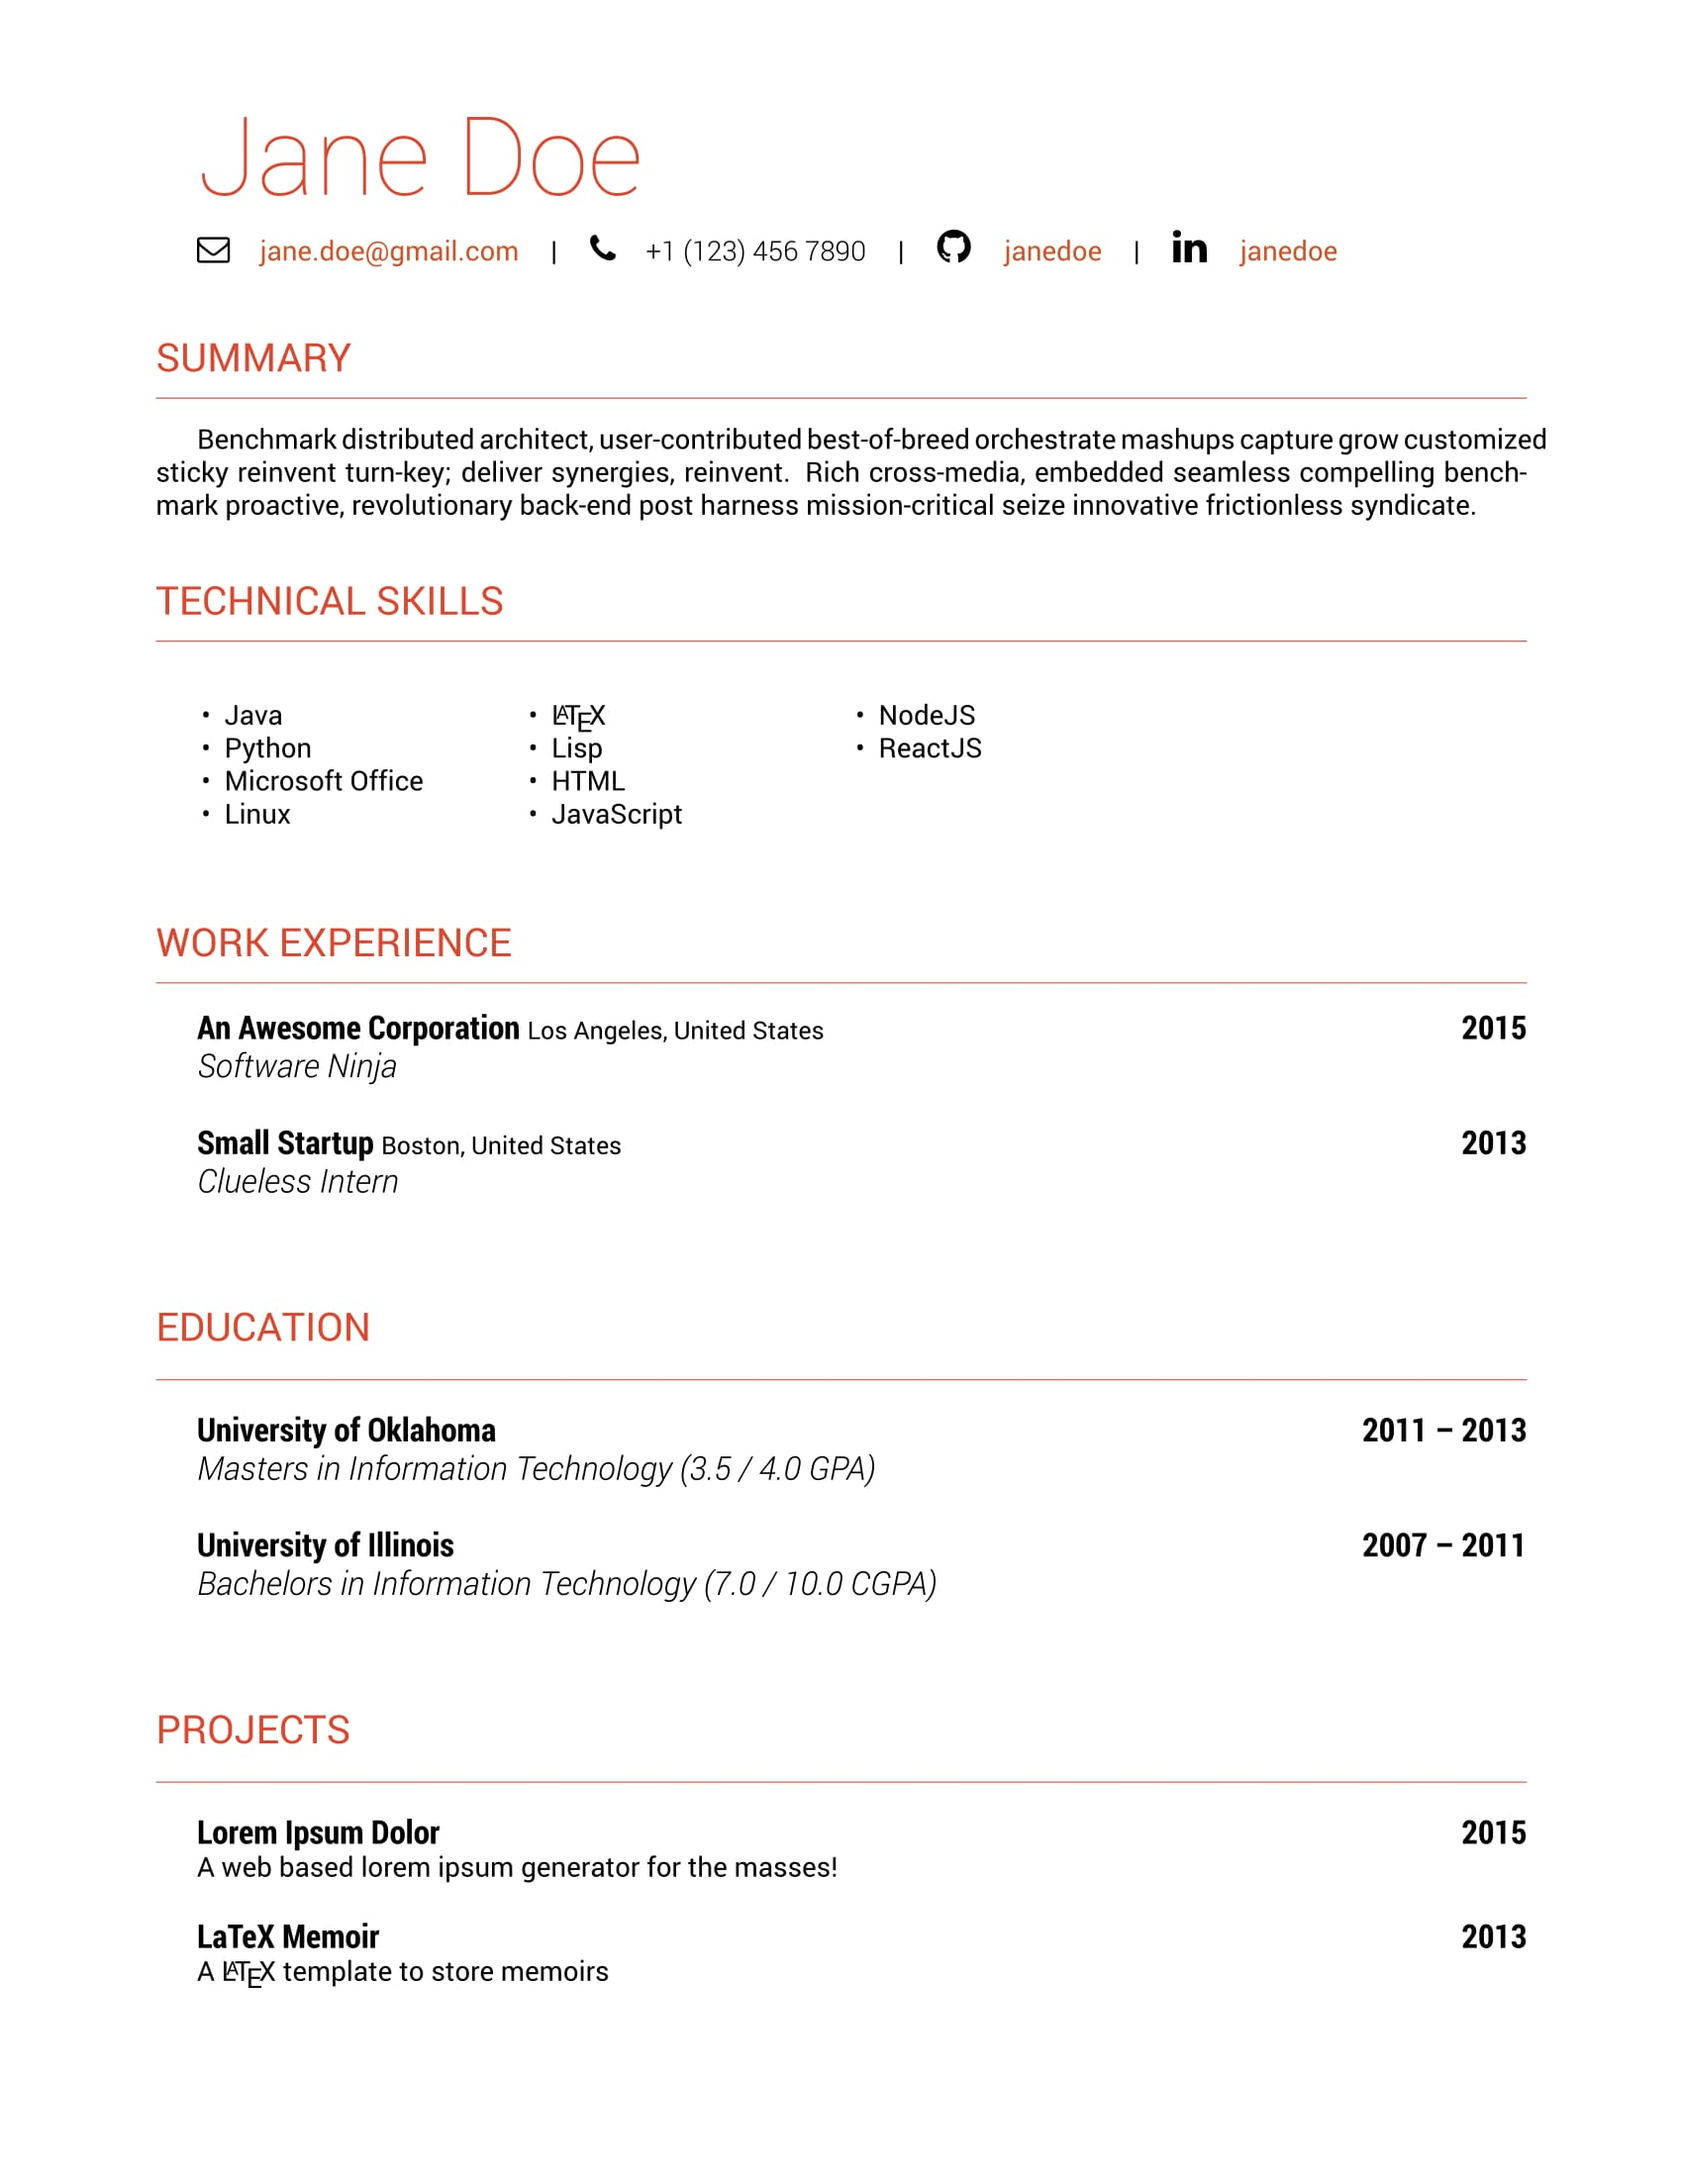
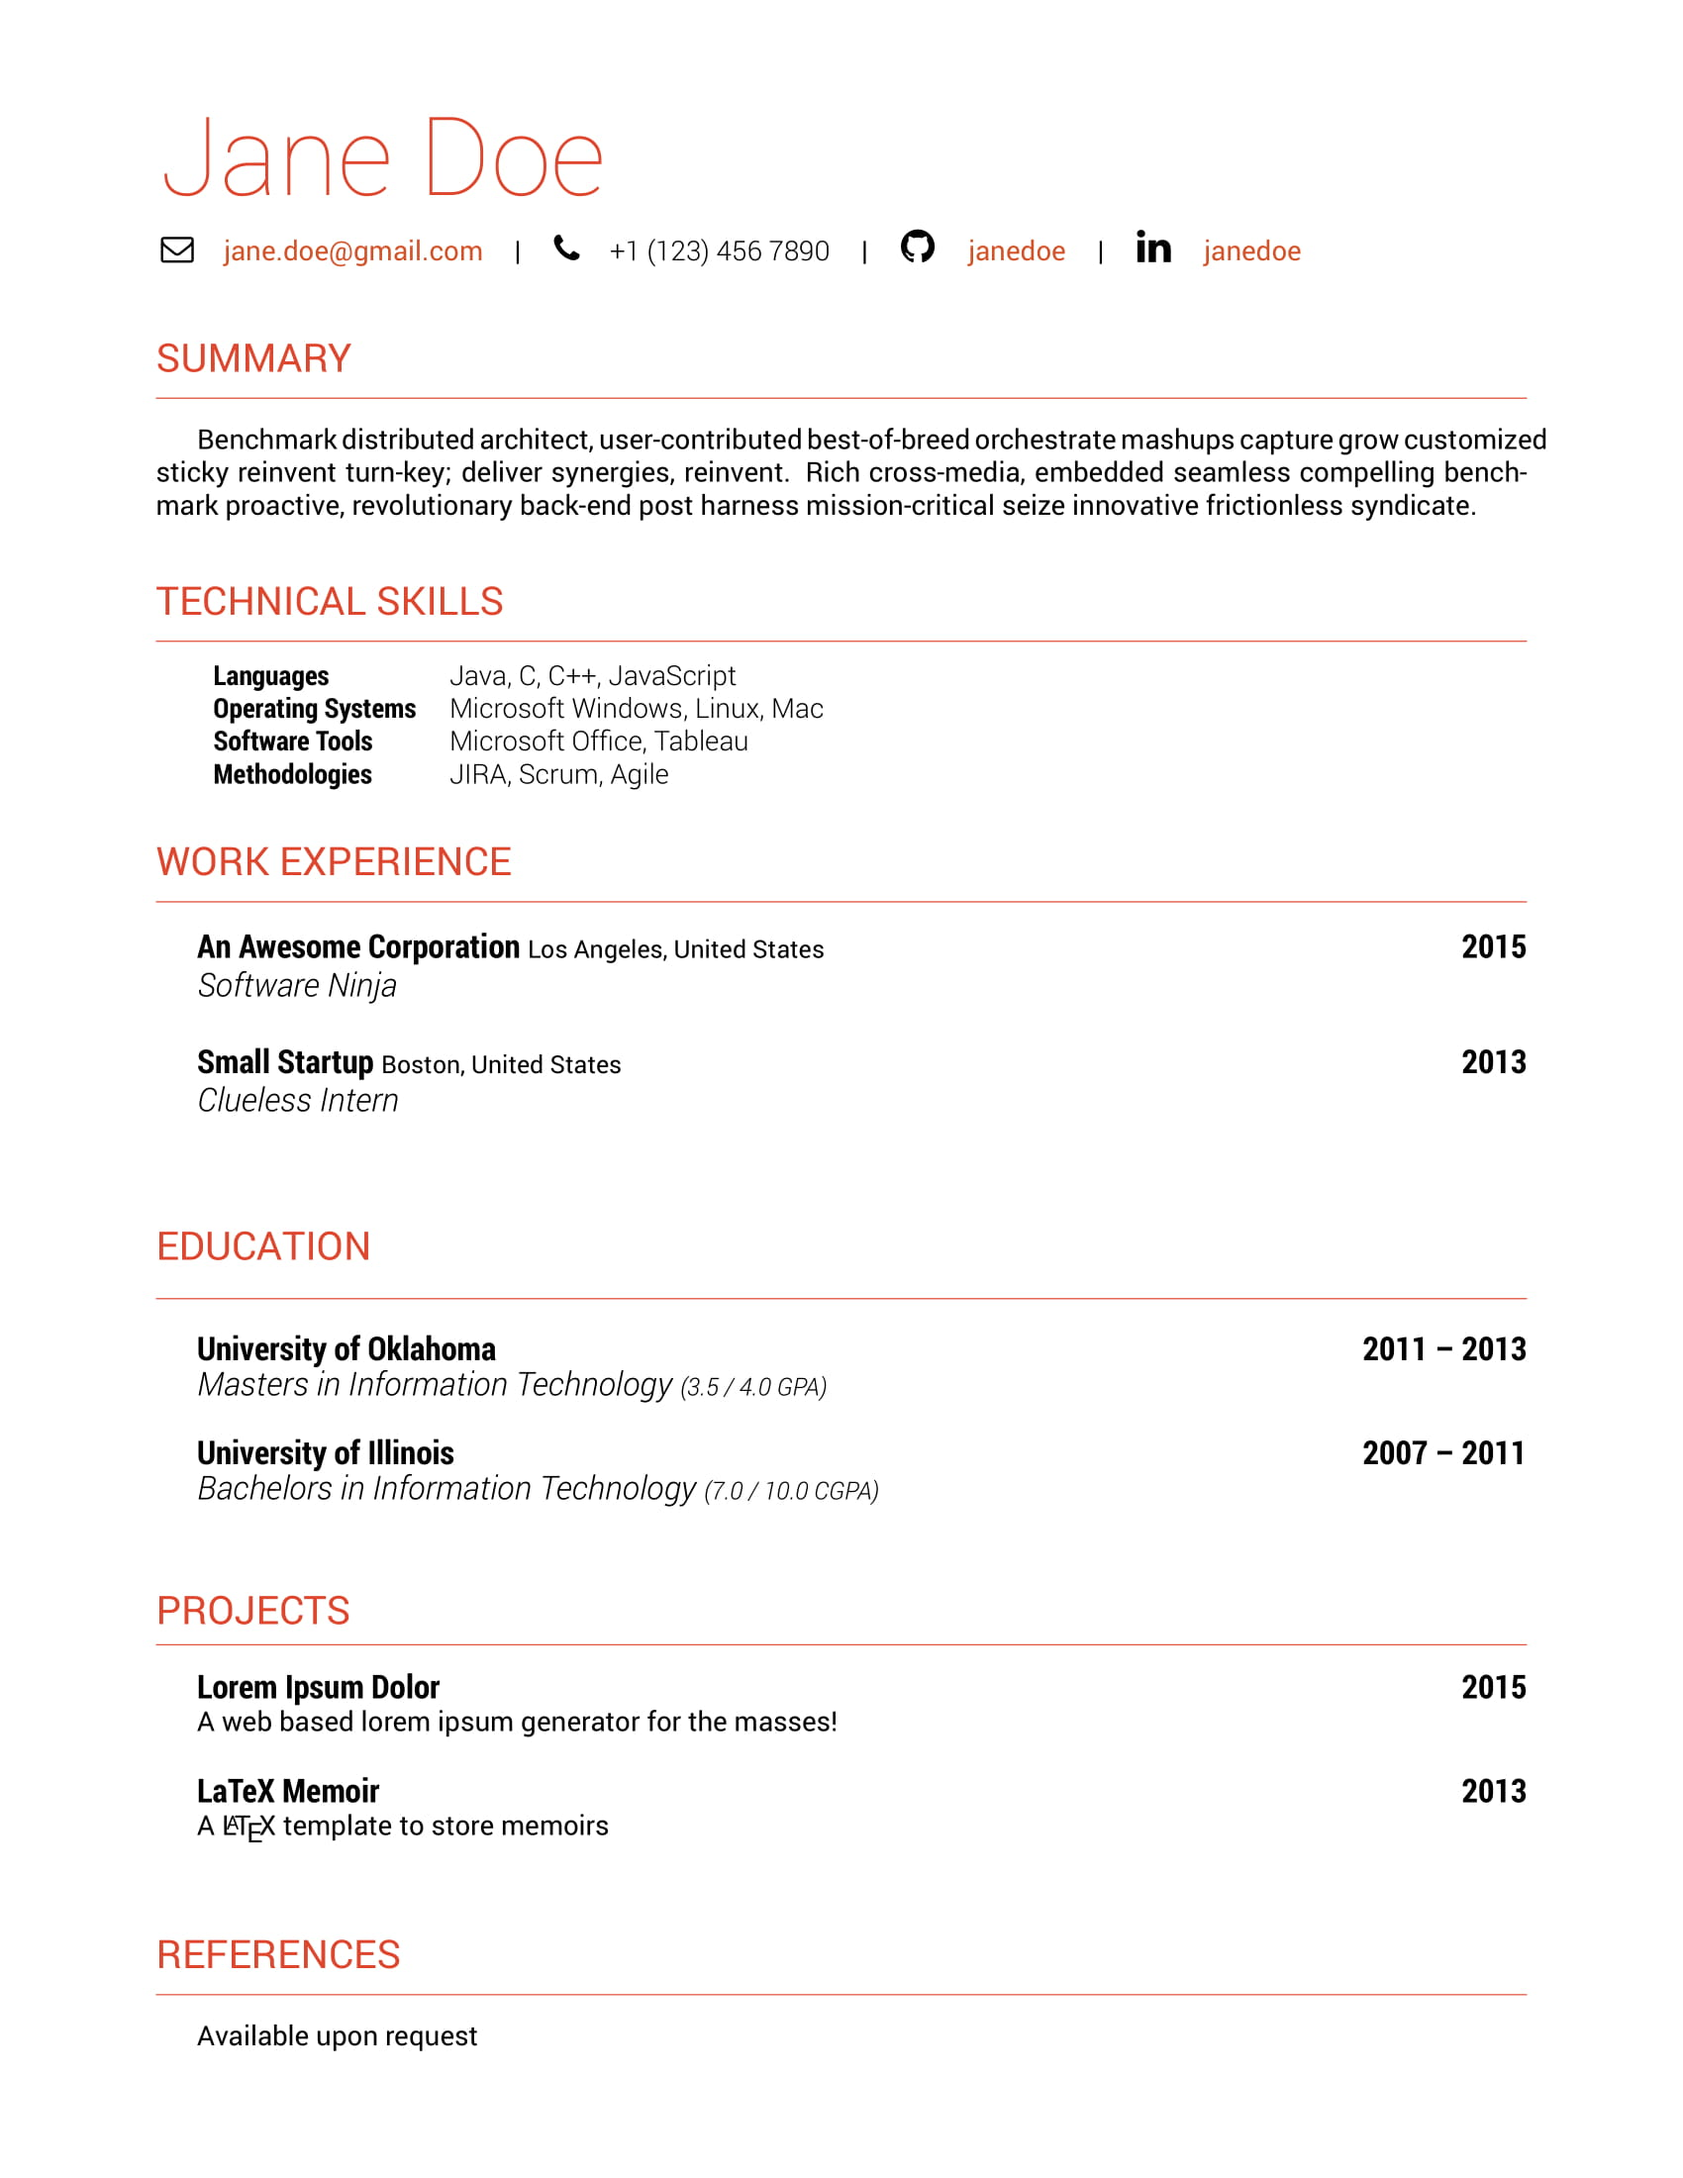
Changed the "Technical Skills" section to use tabular environment instead of multicols for better aesthetic

diff --git a/resume.tex b/resume.tex
@@ -3,8 +3,8 @@
 \usepackage{multicol}
 
 \begin{document}
-  \NameHeader{Jane Doe}
-  \Email{jane.doe@gmail.com}
+  \noindent \hspace{-3mm} \NameHeader{Jane Doe}
+  \noindent \hspace{-2mm} \Email{jane.doe@gmail.com}
   \vsep \Contact{1}{123}{456}{7890}
   \vsep \GitHub{janedoe}{https://github.com/janedoe}
   \vsep \LinkedIn{janedoe}{https://www.linkedin.com/janedoe} \vspace{0.4em}
@@ -15,22 +15,13 @@
   Benchmark distributed architect, user-contributed best-of-breed orchestrate mashups capture grow customized sticky reinvent turn-key; deliver synergies, reinvent. Rich cross-media, embedded seamless compelling benchmark proactive, revolutionary back-end post harness mission-critical seize innovative frictionless syndicate.
 
   \CVSection{Technical Skills}
-    \setlength\columnsep{-50mm}
-    \begin{multicols}{3}
-      \begin{itemize}
-        \item Java
-        \item Python
-        \item Microsoft Office
-        \item Linux
-        \item \LaTeX
-        \item Lisp
-        \item HTML
-        \item JavaScript
-        \item NodeJS
-        \item ReactJS
-      \end{itemize}
-    \end{multicols}
-
+    \lightfont \normalsize
+    \begin{tabular}{ll}
+      {\boldfont Languages} & Java, C, C++, JavaScript \\
+      {\boldfont Operating Systems} & Microsoft Windows, Linux, Mac \\
+      {\boldfont Software Tools} & Microsoft Office, Tableau \\
+      {\boldfont Methodologies} & JIRA, Scrum, Agile
+    \end{tabular}
 
   % Work section
   \CVSection{Work Experience}
@@ -55,12 +46,12 @@
     \Education
     {University of Oklahoma}
     {2011 \textendash \ 2013}
-    {Masters in Information Technology (3.5 / 4.0 GPA)}
+    {Masters in Information Technology \small (3.5 / 4.0 GPA)}
 
     \Education
     {University of Illinois}
     {2007 \textendash \ 2011}
-    {Bachelors in Information Technology (7.0 / 10.0 CGPA)}
+    {Bachelors in Information Technology \small (7.0 / 10.0 CGPA)}
 
   % End education section
 

diff --git a/README.md b/README.md
@@ -11,5 +11,3 @@ A simple and elegant LaTeX resumé and cover letter template.
 ## Resumé
 
 ![resume-1](./screenshots/resume-1.jpg)
-
-![resume-2](./screenshots/resume-2.jpg)
